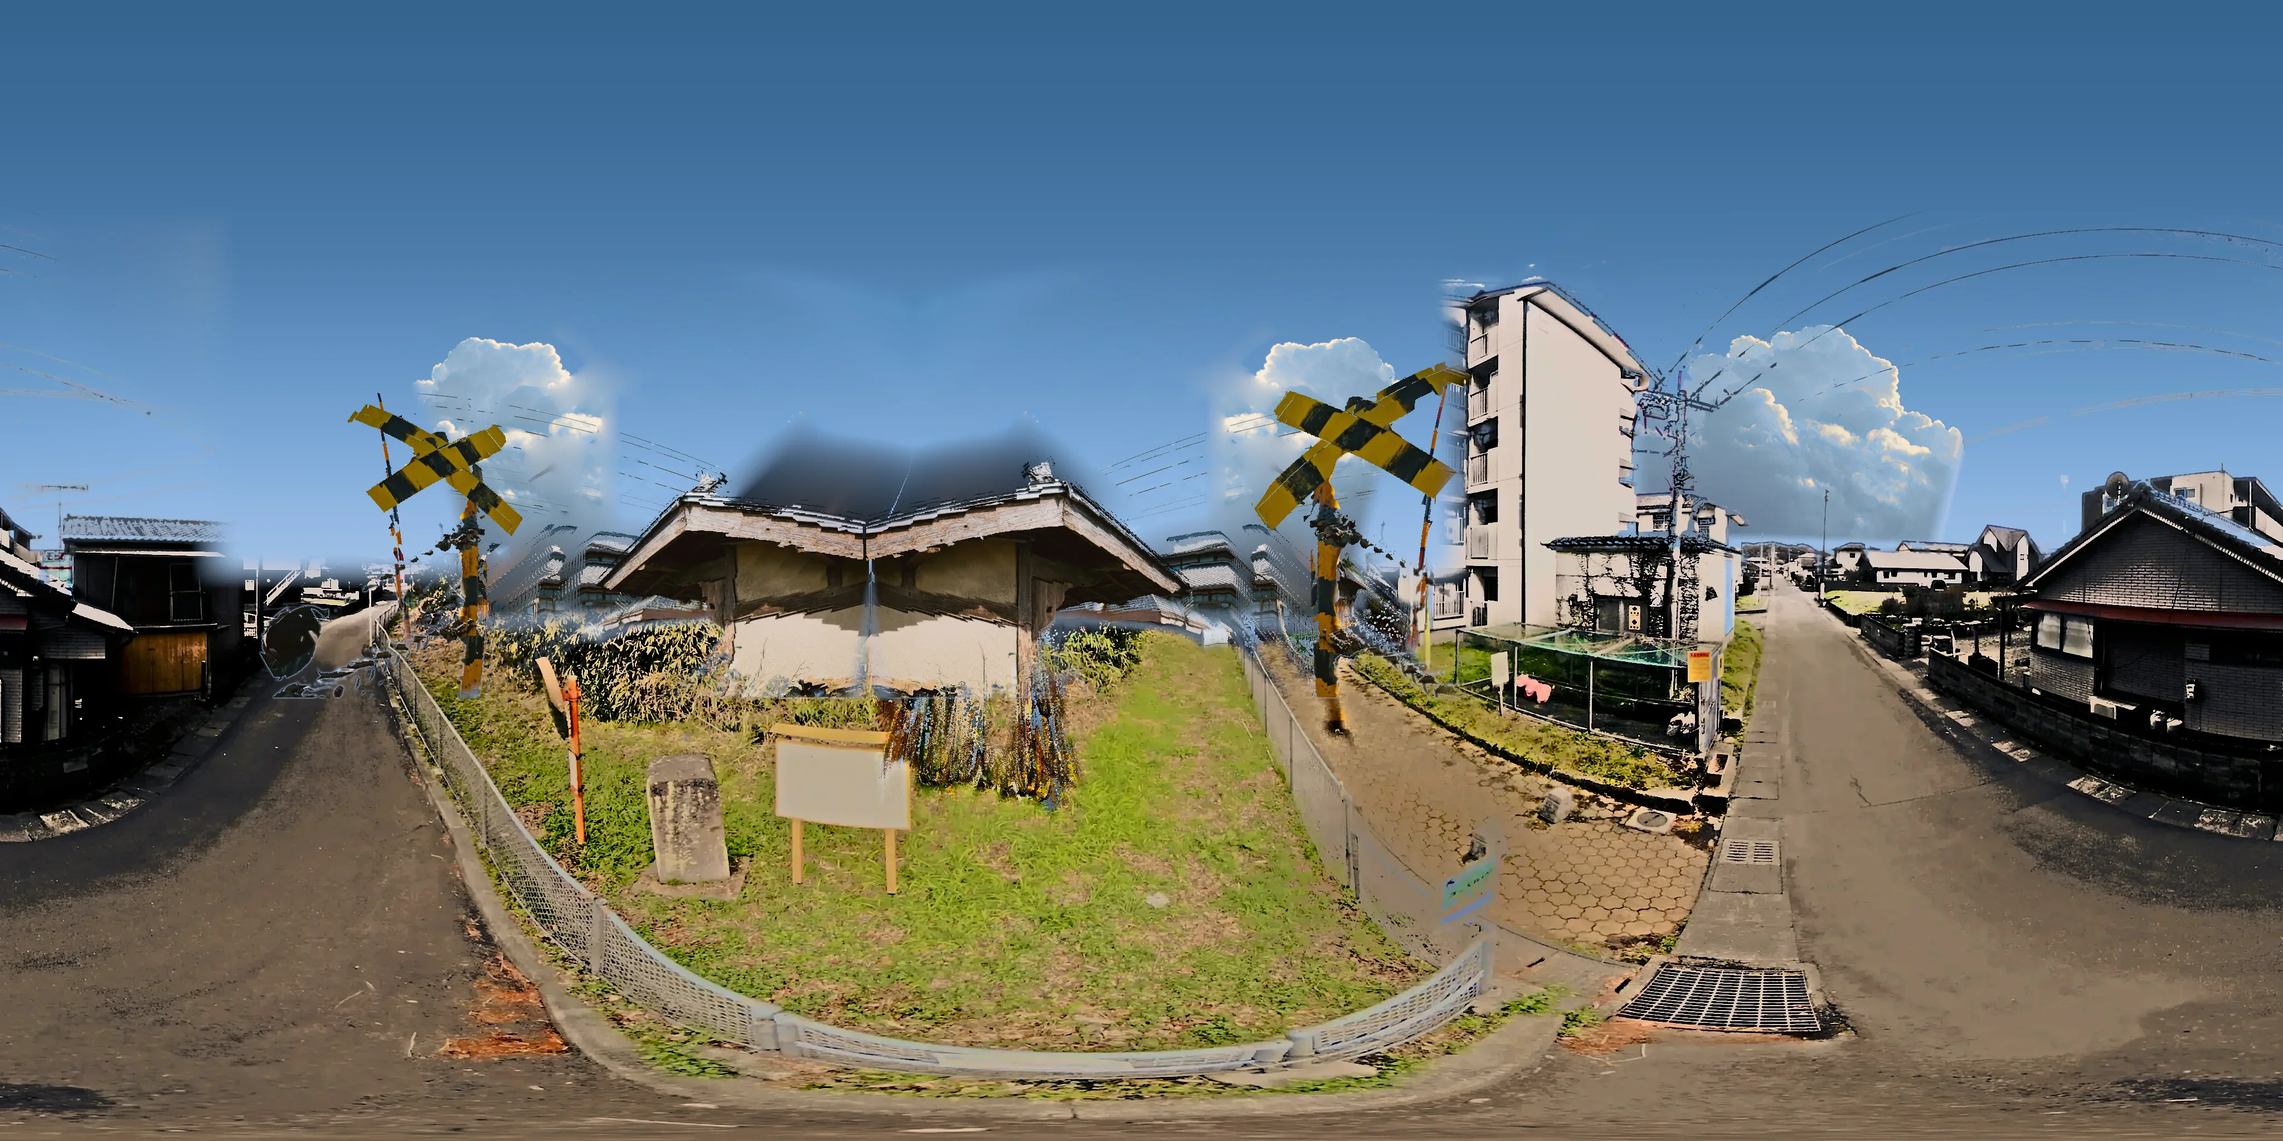
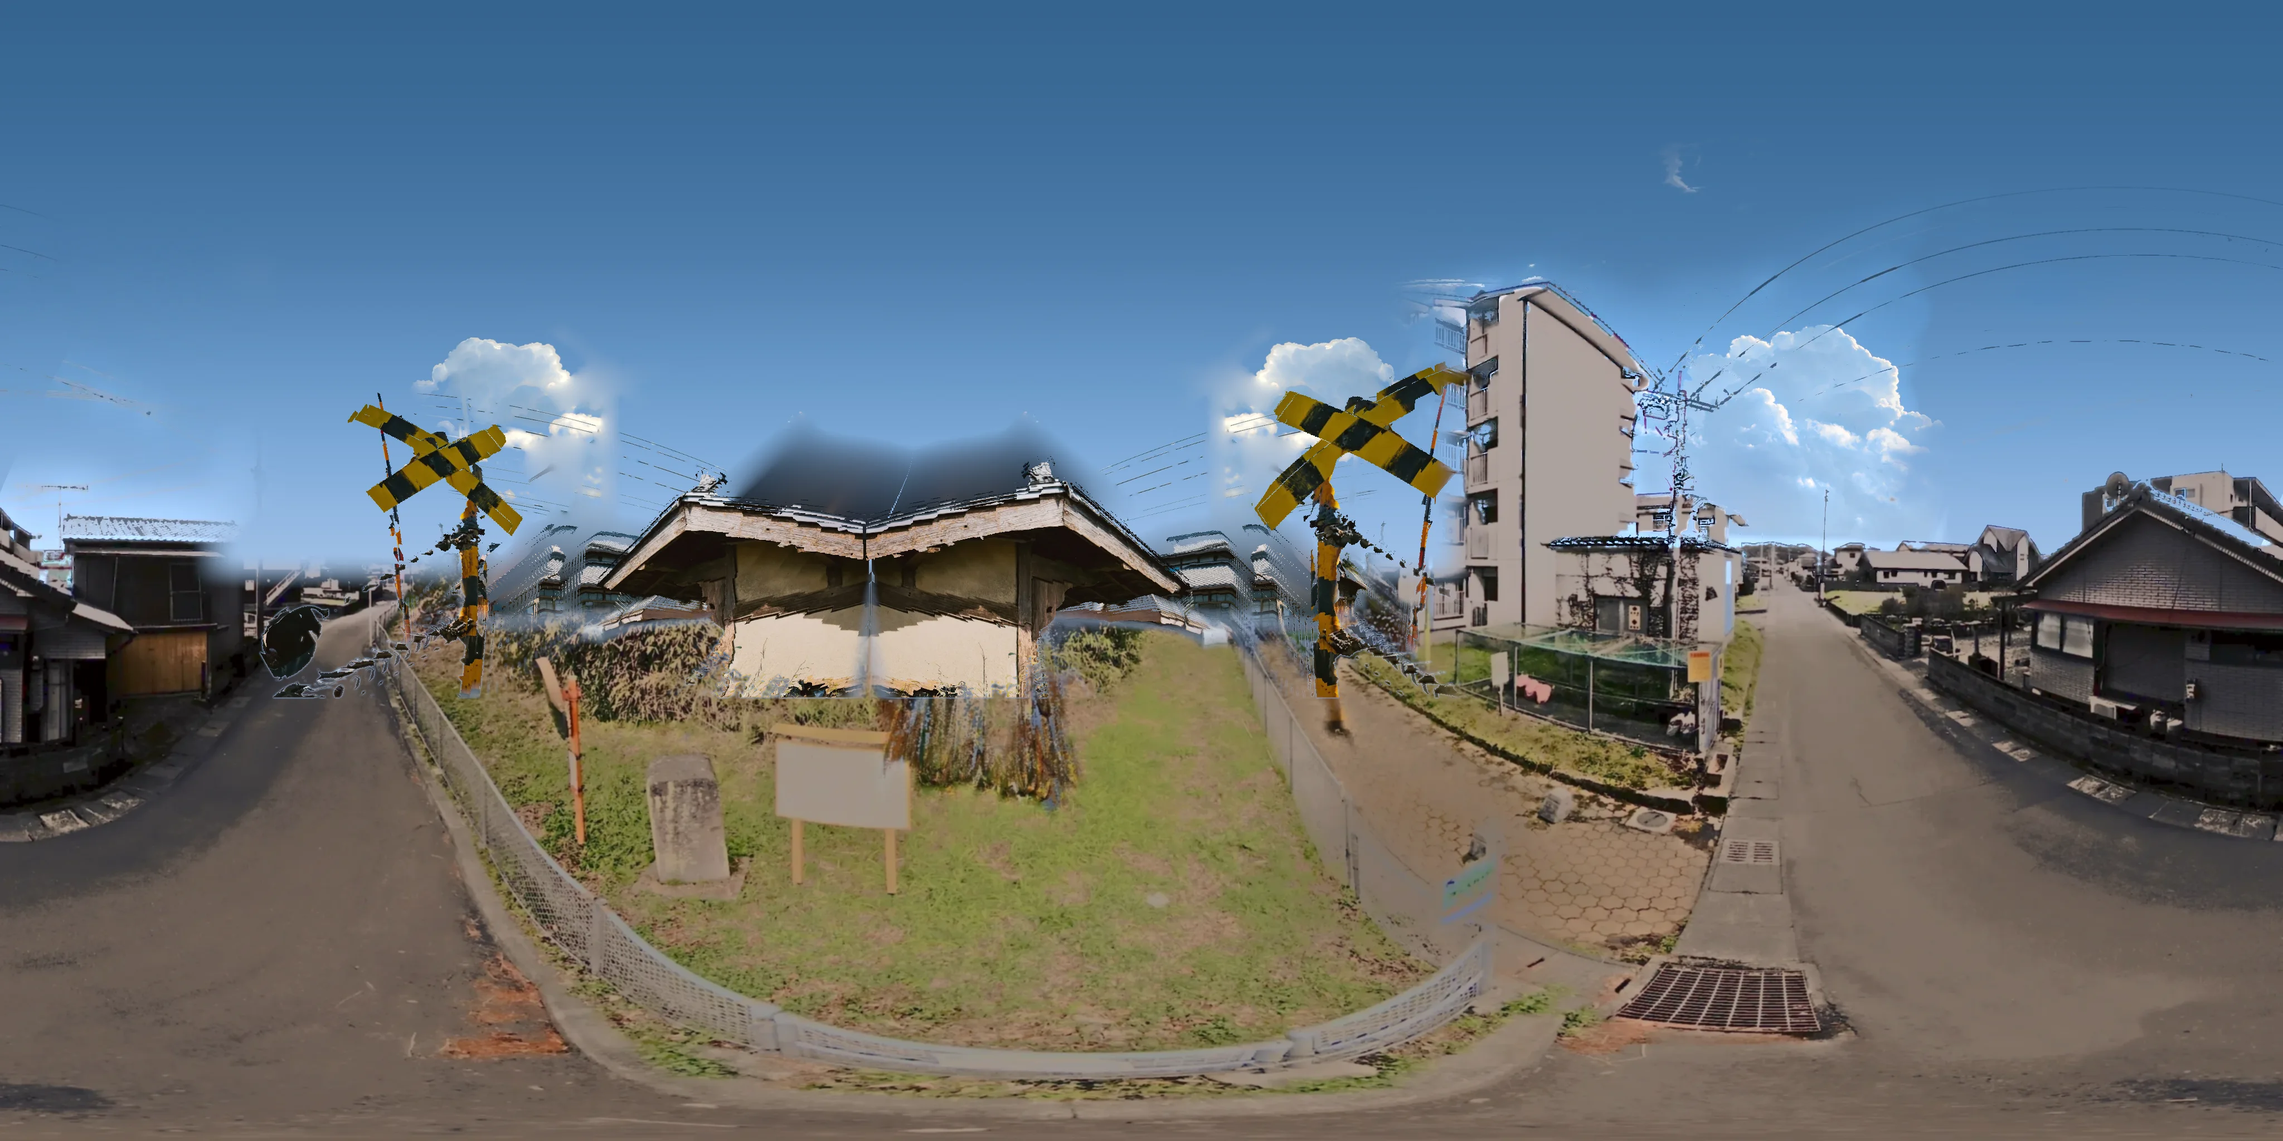
Lab: climb curve-mirror round 1
Claude-Session: https://claude.ai/code/session_01RqENhngNCzDFmJWDZueXGV

diff --git a/tools/depth/bakes/curve-mirror/reproject.py b/tools/depth/bakes/curve-mirror/reproject.py
@@ -32,7 +32,17 @@ rebuilds everything above the road toward the crossing from the plate alone:
     (sky_grade.target), deepening to the zenith: the cobalt round the mirror.
     The plate's own edges fade into it over a few degrees.
   - below the road's horizon and round behind the lens to the right (the
-    street the mirror watches at rest), the developed 360 stays as it was.
+    street the mirror watches at rest), the 360 stays, developed down to
+    the plate (street_develop: its HDR crunch, crushed blacks, milky whites
+    and crisp JPEG edges taken to the plate's local contrast, black, plaster
+    white, colour and spread), its sky rebased on the plate's gradient.
+  - and no seam runs straight across the sky: the plate's and the 360's
+    skies cross over a wide band (in azimuth where both are sky, and by
+    elevation up the sky over the 360), and a cloud that a frame cut (the
+    plate's, turned or not, and the heap match.py built) is eroded by its
+    own density toward the cut over SKY_FEATHER degrees on a rough line.
+
+    REPROJECT_CACHE=/path/march.npz keeps the march between runs.
 
 The distances (envd) are the ray's own, so the engine's parallax across the
 0.8 m face holds; the cumulus matte (envc) is cleared where the plate now
@@ -51,6 +61,8 @@ sys.path.insert(0, os.path.join(os.path.dirname(os.path.abspath(__file__)), ".."
 import kit  # noqa: E402
 
 sys.path.insert(0, os.path.dirname(os.path.abspath(__file__)))
+import develop  # noqa: E402
+import match  # noqa: E402
 import sky_grade  # noqa: E402
 
 SRC, OUT = sys.argv[1], sys.argv[2]
@@ -59,9 +71,22 @@ STEPS = 150  # ray-march steps, geometric in distance
 T0, T1 = 0.15, 1600.0  # m
 THICK = (0.06, 0.06)  # a hit: |ray z - surface z| under 6 % + 6 cm
 BG_K = 121  # the background plate's neighbourhood, px at half resolution
-FEATHER = 5.0  # degrees: the plate's frame edge into the sky round it
+FEATHER = 5.0  # degrees: the plate's surfaces at its frame edge into the sky round it
+SKY_FEATHER = 12.0  # degrees: a cloud eroded toward a cut (the frame's edge, the heap's)
+WOBBLE = (3.0, 4.0)  # that cut's line roughened: degrees, and the noise's scale (degrees)
+HEAP_CUT = 2800.0  # px in match.py's virtual camera: where its heap's source frame cut it
 REGION = (-150.0, 52.0)  # azimuths (from the lens's heading) the plate's world replaces, degrees
-ZENITH = 58.0  # and everything above this elevation
+REGION_SKY = 22.0  # degrees: the crossfade in azimuth where both sides are sky
+ZENITH = (40.0, 70.0)  # and everything above, crossfaded over these elevations
+# the street's print (street_develop)
+ST_DETAIL = 0.6  # its local contrast kept
+ST_MED = 0.13  # its median, linear
+ST_SHADE = 0.7  # log slope under it
+ST_LIT = 0.95  # and over it
+ST_KNEE, ST_WHITE = 0.26, 0.5  # the shoulder: under the plaster's sunlit white (~0.70)
+ST_CHROMA = 0.9  # its colour round its cast
+ST_CAST = 0.85  # how far its cast goes to the plate's surfaces' mean
+ST_SOFT = 1.1  # px (4096 equirect): the plate's spread
 
 T = kit.Timer()
 sc = json.load(open(f"{SRC}/scene.json"))
@@ -206,14 +231,16 @@ def march(O, Dv, tmin, tmax, lz, col, thick, edges=None):
 
 
 def frame_in(O, Dv, t):
-    """How far inside the plate's frame each hit lands, degrees (f px/deg)."""
+    """How far inside the plate's frame each hit lands, degrees (f px/deg),
+    and the plate's sky matte there (the hit is open sky or cloud)."""
     X = (O if O.ndim == 2 else O[None]) + Dv * t[:, None]
     cam = X @ R.astype(np.float32)
     z = np.maximum(-cam[:, 2], 0.05)
     u = cx + f * cam[:, 0] / z
     v = cy - f * cam[:, 1] / z
     pin = np.minimum(np.minimum(u, PW - u), np.minimum(v, PH - v))
-    return pin / (f * np.pi / 180)
+    sk = samp(sky, (u * s2 - 0.5).astype(np.float32), (v * s2 - 0.5).astype(np.float32))
+    return pin / (f * np.pi / 180), sk
 
 
 # the rays to trace: above the road, toward the crossing and round the left
@@ -226,10 +253,20 @@ t_pl = np.where(dn < -1e-6, Mn / np.maximum(-dn, 1e-6), np.inf).astype(np.float3
 
 col = np.zeros((EH * EW, 3), np.float32)
 tt = np.full(EH * EW, 1000.0, np.float32)
-cov = np.zeros(EH * EW, np.float32)
+pin = np.full(EH * EW, -90.0, np.float32)  # degrees inside the plate's frame (-90: no hit)
+skh = np.zeros(EH * EW, np.float32)  # the plate's sky matte at the hit
 has = np.zeros(EH * EW, bool)  # the plate's side is seen first: a ray hits it before the plane
 
-for name, sel, O, Dfun, tlim in (
+# The march is the slow part (minutes); REPROJECT_CACHE (an .npz path) keeps
+# it, so the composition below can be iterated on alone.
+CACHE = os.environ.get("REPROJECT_CACHE")
+cached = CACHE and os.path.exists(CACHE)
+if cached:
+    z_ = np.load(CACHE)
+    col, tt, pin, skh = z_["col"], z_["tt"], z_["pin"], z_["skh"]
+    print("march: from", CACHE)
+
+for name, sel, O, Dfun, tlim in () if cached else (
     ("front", front.reshape(-1), M.astype(np.float32), lambda d: d, lambda i: (np.zeros(len(i), np.float32), t_pl[i])),
     ("turned", (rows & (dn.reshape(EH, EW) < 0)).reshape(-1), Mr.astype(np.float32), lambda d: refl(d).astype(np.float32), lambda i: (t_pl[i], np.full(len(i), np.inf, np.float32))),
 ):
@@ -247,55 +284,207 @@ for name, sel, O, Dfun, tlim in (
             t1[miss[h2]] = t2[h2]
             h1[miss[h2]] = True
         hi = np.nonzero(h1)[0]
-        pin = frame_in(O, Dv[hi], t1[hi])
-        w = kit.smoothstep(0.0, FEATHER, pin).astype(np.float32)
+        p_, k_ = frame_in(O, Dv[hi], t1[hi])
         col[i[hi]] = c1[hi]
         tt[i[hi]] = t1[hi]
-        cov[i[hi]] = w
+        pin[i[hi]] = p_
+        skh[i[hi]] = k_
         has[i[hi]] = True
     T.mark(name)
+if CACHE and not cached:
+    np.savez(CACHE, col=col, tt=tt, pin=pin, skh=skh)
 
 col = col.reshape(EH, EW, 3)
 tt = tt.reshape(EH, EW)
-cov = cov.reshape(EH, EW)
+pin = pin.reshape(EH, EW)
+skh = skh.reshape(EH, EW)
+
+# ---------------------------------------------------------------- seams
+# A cut that runs straight across the sky is what the eye finds in the glass
+# first: the plate's cumulus at its frame's edge (and, turned over the plane,
+# at the far side's), the 360's heap where match.py's virtual camera cut its
+# source. Each is ended by its own density instead: the ramp toward the cut
+# (SKY_FEATHER wide, its line roughened by a smooth noise, WOBBLE) is taken
+# off the cloud's opacity as a threshold, so its thin wisps go first and its
+# cores last, and the heap thins out into the blue like a cloud's lee side
+# rather than ending on a ruled line or fading as one sheet.
+def noise(seed, sigma_deg):
+    """A smooth unit noise over the panorama, wrapped in azimuth."""
+    rng = np.random.default_rng(seed)
+    n = rng.standard_normal((256, 512)).astype(np.float32)
+    pad = 96
+    n = cv2.GaussianBlur(np.concatenate([n[:, -pad:], n, n[:, :pad]], 1), (0, 0), sigma_deg * 512 / 360)[:, pad:-pad]
+    return cv2.resize(n / n.std(), (EW, EH), interpolation=cv2.INTER_CUBIC)
+
+
+def erode_by(a, ramp):
+    """What is kept of a cloud of opacity a where the ramp (1 inside, 0 at
+    the cut) has thinned it: the ramp's shortfall taken off a as a threshold."""
+    k = np.clip(a - (1 - ramp), 0, 1) / np.maximum(a, 1e-3)
+    return np.where(a > 0.02, k, ramp).astype(np.float32)
+
+
+nz = noise(11, WOBBLE[1])
+nz2 = noise(23, WOBBLE[1] * 0.4)
+wob = WOBBLE[0] * (0.75 * nz + 0.45 * nz2)
+skyc = sky_grade.target(np.clip(el, -5, 90)).astype(np.float32)
+Lsky = np.maximum(kit.luma(skyc), 1e-4)
+
+
+# ---------------------------------------------------------------- the 360's sky
+# The 360's sky was swapped for the plate's target in the bake, but the heap
+# match.py built over the road behind the lens brought its own sky between
+# its turrets, a greyer, darker cobalt inside its virtual camera's frame:
+# in the glass a hard-edged rectangle of another blue round the cloud. So its
+# clear sky is rebased on the target as sky_grade does the plate's (the clear
+# sky rescaled, a cloud given the difference so it keeps its own light, a
+# wire its darkness), and then the two skies are one gradient and can meet
+# across a wide crossfade (below) with nothing to show where.
+def sky_rebase(c, sk):
+    L = kit.luma(c)
+    Lm = cv2.erode(np.where(sk > 0.9, L, 9.0).astype(np.float32), np.ones((61, 61), np.uint8))
+    Lm = cv2.GaussianBlur(Lm, (0, 0), 24)
+    clear = (sk > 0.9) & (L < Lm * 1.12)
+    B = np.maximum(cv2.GaussianBlur(kit.pushpull(c, clear.astype(np.float32)), (0, 0), 16), 1e-4)
+    cloud = kit.smoothstep(1.03, 1.35, L / np.maximum(kit.luma(B), 1e-4))[..., None]
+    new = c * (skyc / B) * (1 - cloud) + (c + skyc - B) * cloud
+    return (c + (np.maximum(new, 0) - c) * sk[..., None]).astype(np.float32)
+
+
+def heap_fade(c, sk, cm):
+    """The heap's cut (HEAP_CUT, in match.py's virtual camera) eroded by its
+    density over SKY_FEATHER degrees; returns the panorama and the cloud matte."""
+    Rv = match.view_frame(match.V_LON, match.V_PITCH)
+    cam = E @ Rv
+    th = np.degrees(np.arctan2(cam[..., 0], -cam[..., 2]))
+    th_cut = np.degrees(np.arctan((HEAP_CUT - match.V_W / 2) / f))
+    ramp = kit.smoothstep(th_cut - 1, th_cut - 1 - SKY_FEATHER, th + wob)
+    ramp = np.where(cam[..., 2] < -0.05, ramp, 1.0).astype(np.float32)
+    a = np.clip(cv2.resize(cm, (EW, EH), interpolation=cv2.INTER_LINEAR) * 1.15, 0, 1)
+    a = np.maximum(a, kit.smoothstep(1.03, 1.5, kit.luma(c) / Lsky) * sk)
+    k = erode_by(a, ramp)
+    # only what is brighter than the clear sky goes: a wire across it stays
+    bright = kit.smoothstep(0.98, 1.04, kit.luma(c) / Lsky)
+    out = c + (skyc - c) * ((1 - k) * sk * bright)[..., None]
+    kc = cv2.resize(k, (cm.shape[1], cm.shape[0]), interpolation=cv2.INTER_AREA)
+    return out.astype(np.float32), (cm * kc).astype(np.float32)
+
 
 # ---------------------------------------------------------------- the 360's print
-# What stays of the 360 (the street behind the lens to the right) is printed
-# nearer the plate: shot under cloud and lifted in its development, it still
-# read as a grey street pasted into the glass. Its surfaces (not its sky,
-# which is already the plate's) are taken down through the mids (L^1.25, so
-# the median lands about a fifth lower and lit faces keep their white), and
-# given a little more of their own colour, warmed toward the lit side, as a
-# sunlit street under this sky has.
-def street_print(c, el):
-    s_ = np.clip(enc(c), 0, 1).astype(np.float32)
-    lab = cv2.cvtColor(s_, cv2.COLOR_RGB2Lab)
-    x = lab[..., 0] / 100
-    chs = (s_[..., 2] - s_[..., 0]) / np.maximum(s_[..., 2], 1e-3)
-    w = (1 - kit.smoothstep(0.12, 0.25, chs) * kit.smoothstep(-4, 2, el)) * kit.smoothstep(45, 35, el)
-    w = cv2.GaussianBlur(w.astype(np.float32), (0, 0), 1.5)
-    lab2 = np.dstack([100 * np.clip(x, 0, 1) ** 1.25, lab[..., 1] * 1.15, lab[..., 2] * 1.15 + 2.5 * np.clip(2 * x, 0, 1)]).astype(np.float32)
-    o = dec(np.clip(cv2.cvtColor(lab2, cv2.COLOR_Lab2RGB), 0, 1))
-    return c * (1 - w[..., None]) + o * w[..., None]
+# What stays of the 360 (the street behind the lens to the right, the road
+# below) was printed in match.py with the sun's contrast, a fence-scale local
+# contrast and an unsharp mask on top of the source's own tone mapping: in the
+# glass it read as a second photograph, crunchy and blocky (the 3840 px JPEG
+# upscaled), its shadows crushed to a hard 0, its lit walls rolled to a milky
+# near-white above the plate's plaster. So it is developed down to the plate:
+#   1. the HDR crunch out: log luminance split on an edge-aware base (a
+#      guided filter, so a wall's edge is not haloed), its detail kept at
+#      ST_DETAIL;
+#   2. the plate's tone: about the street's median (to ST_MED), the shade
+#      side flattened (ST_SHADE: the gutters and cast shadows go to the
+#      plate's skylit shade, not to black) and the lit side on a shoulder
+#      (ST_KNEE to ST_WHITE) that stays under the plate's plaster white,
+#      then the plate's own black (its 0.5th percentile, measured: film base
+#      and flare) laid under everything;
+#   3. the plate's colour: chroma ST_CHROMA of its own about a cast taken
+#      most of the way to the plate's surfaces' mean, and the near-whites
+#      (the milky walls) given the plate's lit plaster;
+#   4. the plate's MTF: the lightness spread ST_SOFT px and the colour more
+#      (the film's dye clouds are softer than its silver), which also takes
+#      the JPEG's blocks and the unsharp's ring out.
+def plate_stats():
+    ph = plate  # linear, full size
+    sk_ = cv2.resize(sky, (PW, PH), interpolation=cv2.INTER_LINEAR)
+    surf = sk_ < 0.3
+    Y = kit.luma(ph)
+    black = float(np.percentile(Y[surf], 0.5))
+    lab = cv2.cvtColor(np.clip(enc(ph), 0, 1).astype(np.float32), cv2.COLOR_RGB2Lab)
+    plit = cv2.resize(aux[..., 1], (PW, PH), interpolation=cv2.INTER_LINEAR)
+    ch = np.hypot(lab[..., 1], lab[..., 2])
+    plaster = surf & (plit > 0.5) & (lab[..., 0] > 75) & (ch < 25)
+    return black, lab[surf][:, 1:].mean(0), lab[plaster][:, 1:].mean(0)
 
 
-env = street_print(env, el)
+def street_develop(c, w):
+    P_BLACK, P_AB, P_PLASTER = plate_stats()
+    Y = np.maximum(kit.luma(c), 1e-5)
+    lY = np.log2(Y).astype(np.float32)
+    # 1. the crunch: detail about an edge-aware base
+    g = np.repeat(((lY + 14) / 14)[..., None], 3, -1).astype(np.float32)
+    base = kit.guided(g, lY, 12, eps=(1.2 / 14) ** 2, s=4)
+    lY = base + ST_DETAIL * (lY - base)
+    # 2. the tone
+    sel = w > 0.9
+    med = float(np.median(lY[sel]))
+    x = lY - med
+    Yn = ST_MED * np.exp2(np.where(x < 0, x * ST_SHADE, x * ST_LIT))
+    Yn = np.where(Yn > ST_KNEE, ST_KNEE + (ST_WHITE - ST_KNEE) * (1 - np.exp(-(Yn - ST_KNEE) / (ST_WHITE - ST_KNEE))), Yn)
+    Yn = P_BLACK + Yn * (1 - P_BLACK / ST_WHITE)
+    out = np.clip(c * (Yn / Y)[..., None], 0, 1)
+    # 3. the colour
+    lab = cv2.cvtColor(enc(out).astype(np.float32), cv2.COLOR_RGB2Lab)
+    m_ab = lab[sel][:, 1:].mean(0)
+    cast = m_ab + ST_CAST * (P_AB - m_ab)
+    ab = cast + ST_CHROMA * (lab[..., 1:] - m_ab)
+    ch = np.hypot(ab[..., 0], ab[..., 1])
+    hl = (kit.smoothstep(62.0, 82.0, lab[..., 0]) * kit.smoothstep(18.0, 8.0, ch))[..., None]
+    ab = ab + 0.85 * hl * (P_PLASTER - ab)
+    # 4. the MTF
+    lab[..., 0] = cv2.GaussianBlur(lab[..., 0], (0, 0), ST_SOFT)
+    lab[..., 1:] = cv2.GaussianBlur(ab.astype(np.float32), (0, 0), ST_SOFT * 2.2)
+    out = dec(np.clip(cv2.cvtColor(lab, cv2.COLOR_Lab2RGB), 0, 1))
+    pa = np.percentile(kit.luma(c)[sel], [1, 5, 25, 50, 75, 95, 99.5]).round(4)
+    pb = np.percentile(kit.luma(out)[sel], [1, 5, 25, 50, 75, 95, 99.5]).round(4)
+    print(f"street: plate black {P_BLACK:.4f}, cast ab {m_ab.round(1)} -> {cast.round(1)}; L pct 1/5/25/50/75/95/99.5 {pa} -> {pb}")
+    return (c * (1 - w[..., None]) + out * w[..., None]).astype(np.float32)
+
+
+# the 360's sky: sky_of's matte, less the bluish white walls it takes in under
+# the old overcast (the houses at the back right): sky is blue, or cloud
+# (match.py's matte), or above the roofs (in linear light the clear sky's
+# saturation is over 0.5 down to the horizon; a grey-blue tile roof's is not)
+sat = (env.max(-1) - env.min(-1)) / np.maximum(env.max(-1), 1e-4)
+cm_up = cv2.resize(envc, (EW, EH), interpolation=cv2.INTER_LINEAR)
+sky360 = develop.sky_of(env, E) * np.maximum.reduce([kit.smoothstep(0.3, 0.42, sat), kit.smoothstep(0.08, 0.3, cm_up), kit.smoothstep(14.0, 20.0, el)])
+sky360 = cv2.GaussianBlur(sky360.astype(np.float32), (0, 0), 0.8)
+env = sky_rebase(env, sky360)
+env, envc = heap_fade(env, sky360, envc)
+env = street_develop(env, cv2.GaussianBlur((1 - sky360).astype(np.float32), (0, 0), 1.0))
 T.mark("street")
 
 # ---------------------------------------------------------------- compose
 # the plate's world: its sky by elevation where the plate does not reach,
-# the plate where it does
-skyc = sky_grade.target(el).astype(np.float32)
+# the plate where it does. Its surfaces meet that sky over FEATHER degrees
+# inside the frame; its sky's cloud (where the plate's sky matte says the hit
+# is sky) is eroded by its density toward the frame's edge over SKY_FEATHER,
+# on a rough line, so neither the cumulus at the plate's right edge nor its
+# turned copy on the far side ends in a straight cut.
+cov = kit.smoothstep(0.0, FEATHER, pin).astype(np.float32)
+ramp = kit.smoothstep(-1.0, SKY_FEATHER - 1.0, pin + wob).astype(np.float32)
+aw = kit.smoothstep(1.03, 1.6, kit.luma(col) / Lsky)
+kw = erode_by(aw, ramp)
 world = skyc * (1 - cov[..., None]) + col * cov[..., None]
+world_sky = skyc + (col - skyc) * kw[..., None]
+world = world * (1 - skh[..., None]) + world_sky * skh[..., None]
 dist = np.where(cov > 0.5, tt, 1000.0)
 # where it replaces the 360: toward the crossing and round to the left, above
-# the road's horizon, and the whole sky overhead; feathered in angle
-azw = kit.smoothstep(REGION[0], REGION[0] + 8, az) * kit.smoothstep(REGION[1], REGION[1] - 6, az)
+# the road's horizon, and the whole sky overhead. Where both sides are
+# surfaces (the apartment block, the crossbuck) the seam stays narrow, so
+# nothing is doubled; where both are sky, the plate's and the 360's skies
+# (one gradient now) cross over REGION_SKY degrees of azimuth, and up the
+# sky over the 360 the plate's takes over by elevation (ZENITH), so a wire
+# or a scrap of cloud thins out instead of ending on a meridian.
+sky_w = (1 - cov) + cov * skh
+both = cv2.GaussianBlur(np.minimum(sky_w, sky360).astype(np.float32), (0, 0), 12.0)
+both = kit.smoothstep(0.6, 0.95, both)
+azn = kit.smoothstep(REGION[0], REGION[0] + 8, az) * kit.smoothstep(REGION[1], REGION[1] - 6, az)
+azw = kit.smoothstep(REGION[0] + 4 - REGION_SKY / 2, REGION[0] + 4 + REGION_SKY / 2, az) * kit.smoothstep(REGION[1] - 3 + REGION_SKY / 2, REGION[1] - 3 - REGION_SKY / 2, az)
+reg_az = azn + both * (azw - azn)
 elw = kit.smoothstep(-3.0, 3.0, el)
-reg = np.maximum(azw * elw, kit.smoothstep(ZENITH - 6, ZENITH, el))
+reg = np.maximum(reg_az * elw, kit.smoothstep(ZENITH[0], ZENITH[1], el))
 # below the horizon, the plate still wins where it reaches (the road under the
 # crossing is the plate's own, wherever the frame saw it)
-reg = np.maximum(reg, cov * azw).astype(np.float32)
+reg = np.maximum(reg, cov * azn).astype(np.float32)
 reg = cv2.GaussianBlur(reg, (0, 0), 1.5)
 env2 = env * (1 - reg[..., None]) + world * reg[..., None]
 
